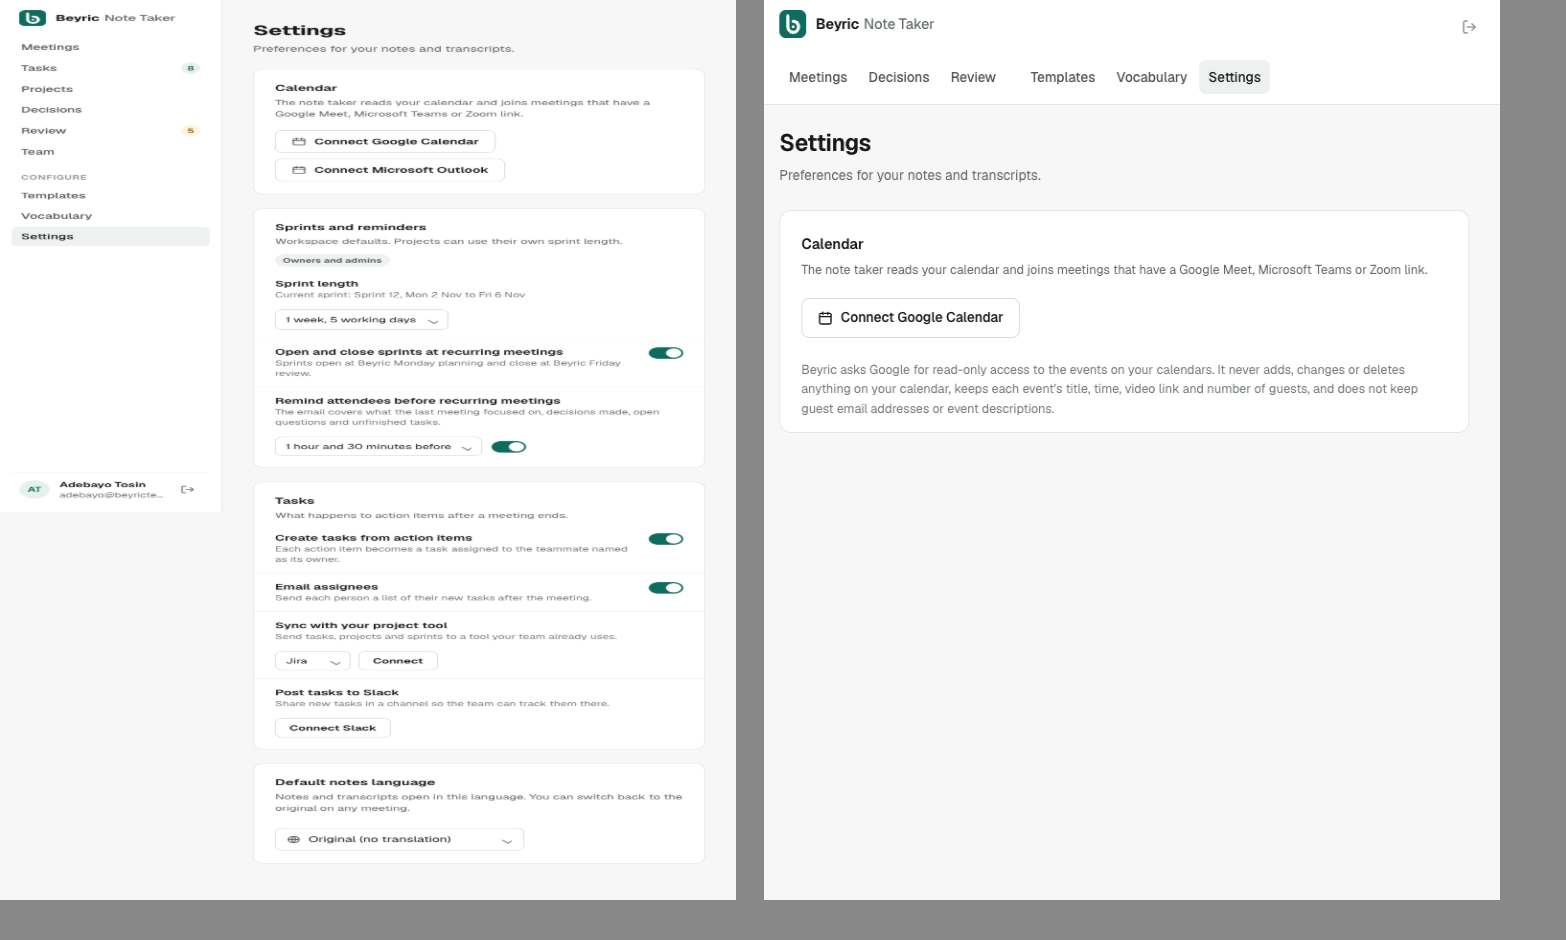
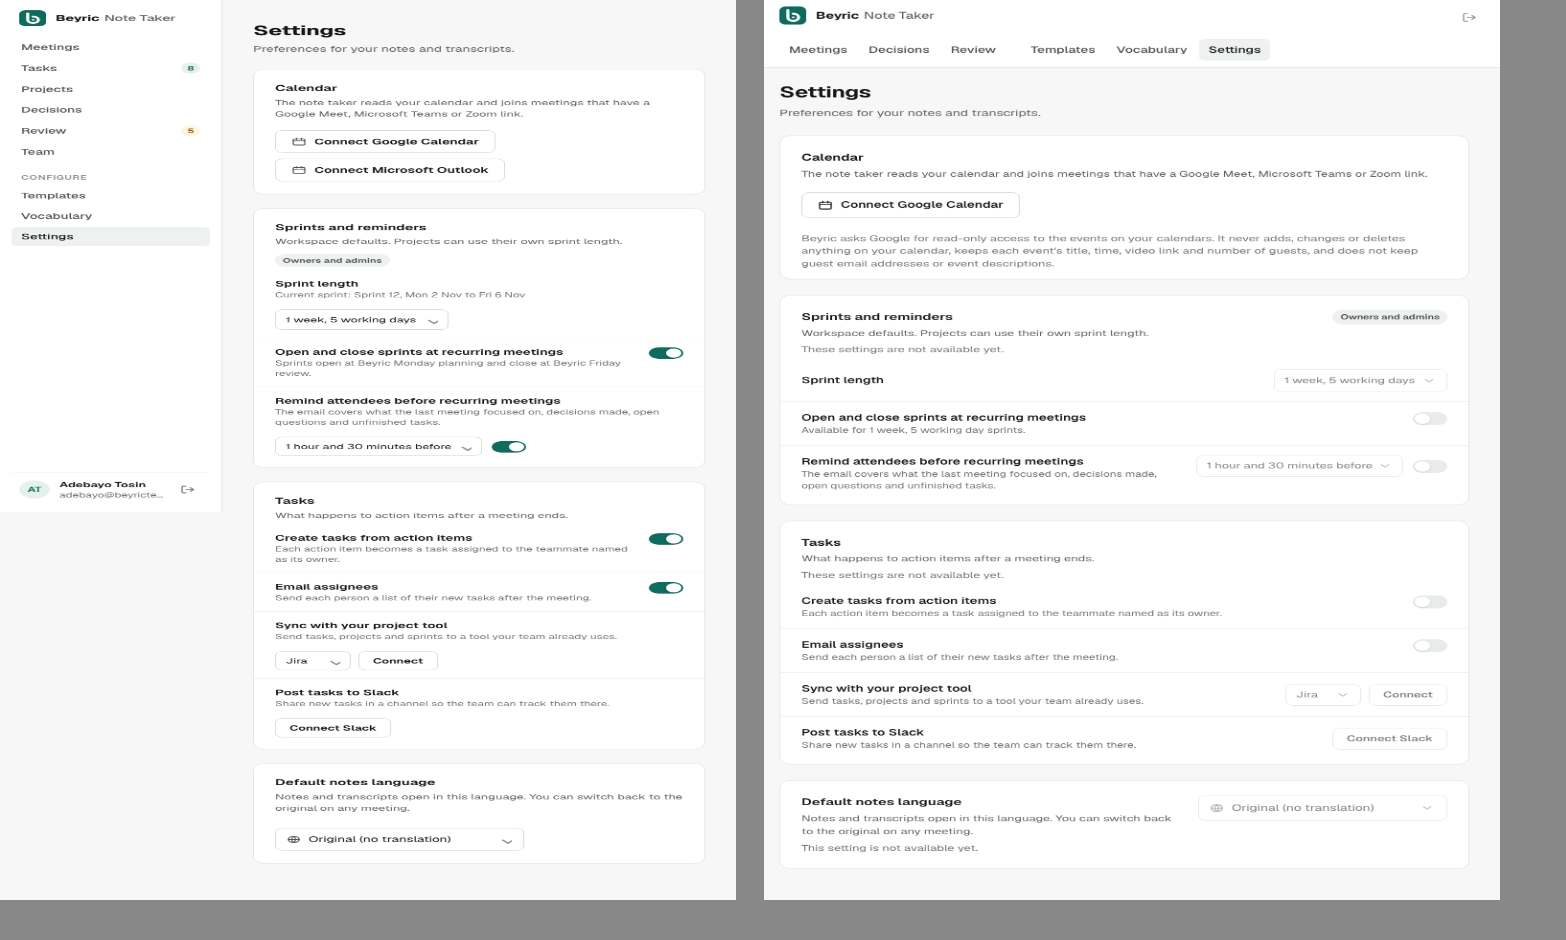
feat(web): parity diff script, mock Recurring route, parity screenshots for the new Settings sections and Recurring cards

diff --git a/web/styles/pages.css b/web/styles/pages.css
@@ -239,6 +239,7 @@
 /* ---- Settings: the sections drawn before their features exist (Sprints and reminders, Tasks,
    Default notes language), and the Recurring cards on Meetings. Measures are the designer's. ---- */
 .pl-head { display: flex; flex-wrap: wrap; justify-content: space-between; gap: var(--space-3); padding: 22px 22px 6px; }
+.pl-head-plain { display: block; }
 .pl-sub { margin: 4px 0 0; font-size: var(--text-sm); color: var(--text-2); }
 .pl-soon { margin: 6px 0 0; }
 .pl-pill { align-self: flex-start; padding: 3px 8px; border-radius: var(--radius-pill); background: var(--surface-active); color: var(--ink-3); font-size: 11px; font-weight: 600; }
@@ -270,6 +271,7 @@
 .rec-title { margin: 0; font-size: var(--text-md); font-weight: 600; letter-spacing: 0; }
 .rec-grid { display: grid; grid-template-columns: repeat(auto-fit, minmax(280px, 1fr)); gap: 14px; margin: 0; padding: 0; list-style: none; }
 .rec-card { display: flex; flex-direction: column; gap: 10px; padding: 16px 18px; border: 1px solid var(--border); border-radius: var(--radius-lg); background: var(--surface); }
+.rec-card > div:first-child { align-self: flex-start; max-width: 100%; }
 .rec-name { font-weight: 600; overflow-wrap: anywhere; }
 .rec-cadence { font-size: var(--text-xs); color: var(--text-3); }
 .rec-chips { display: flex; flex-wrap: wrap; gap: var(--space-2); font-size: var(--text-xs); }
